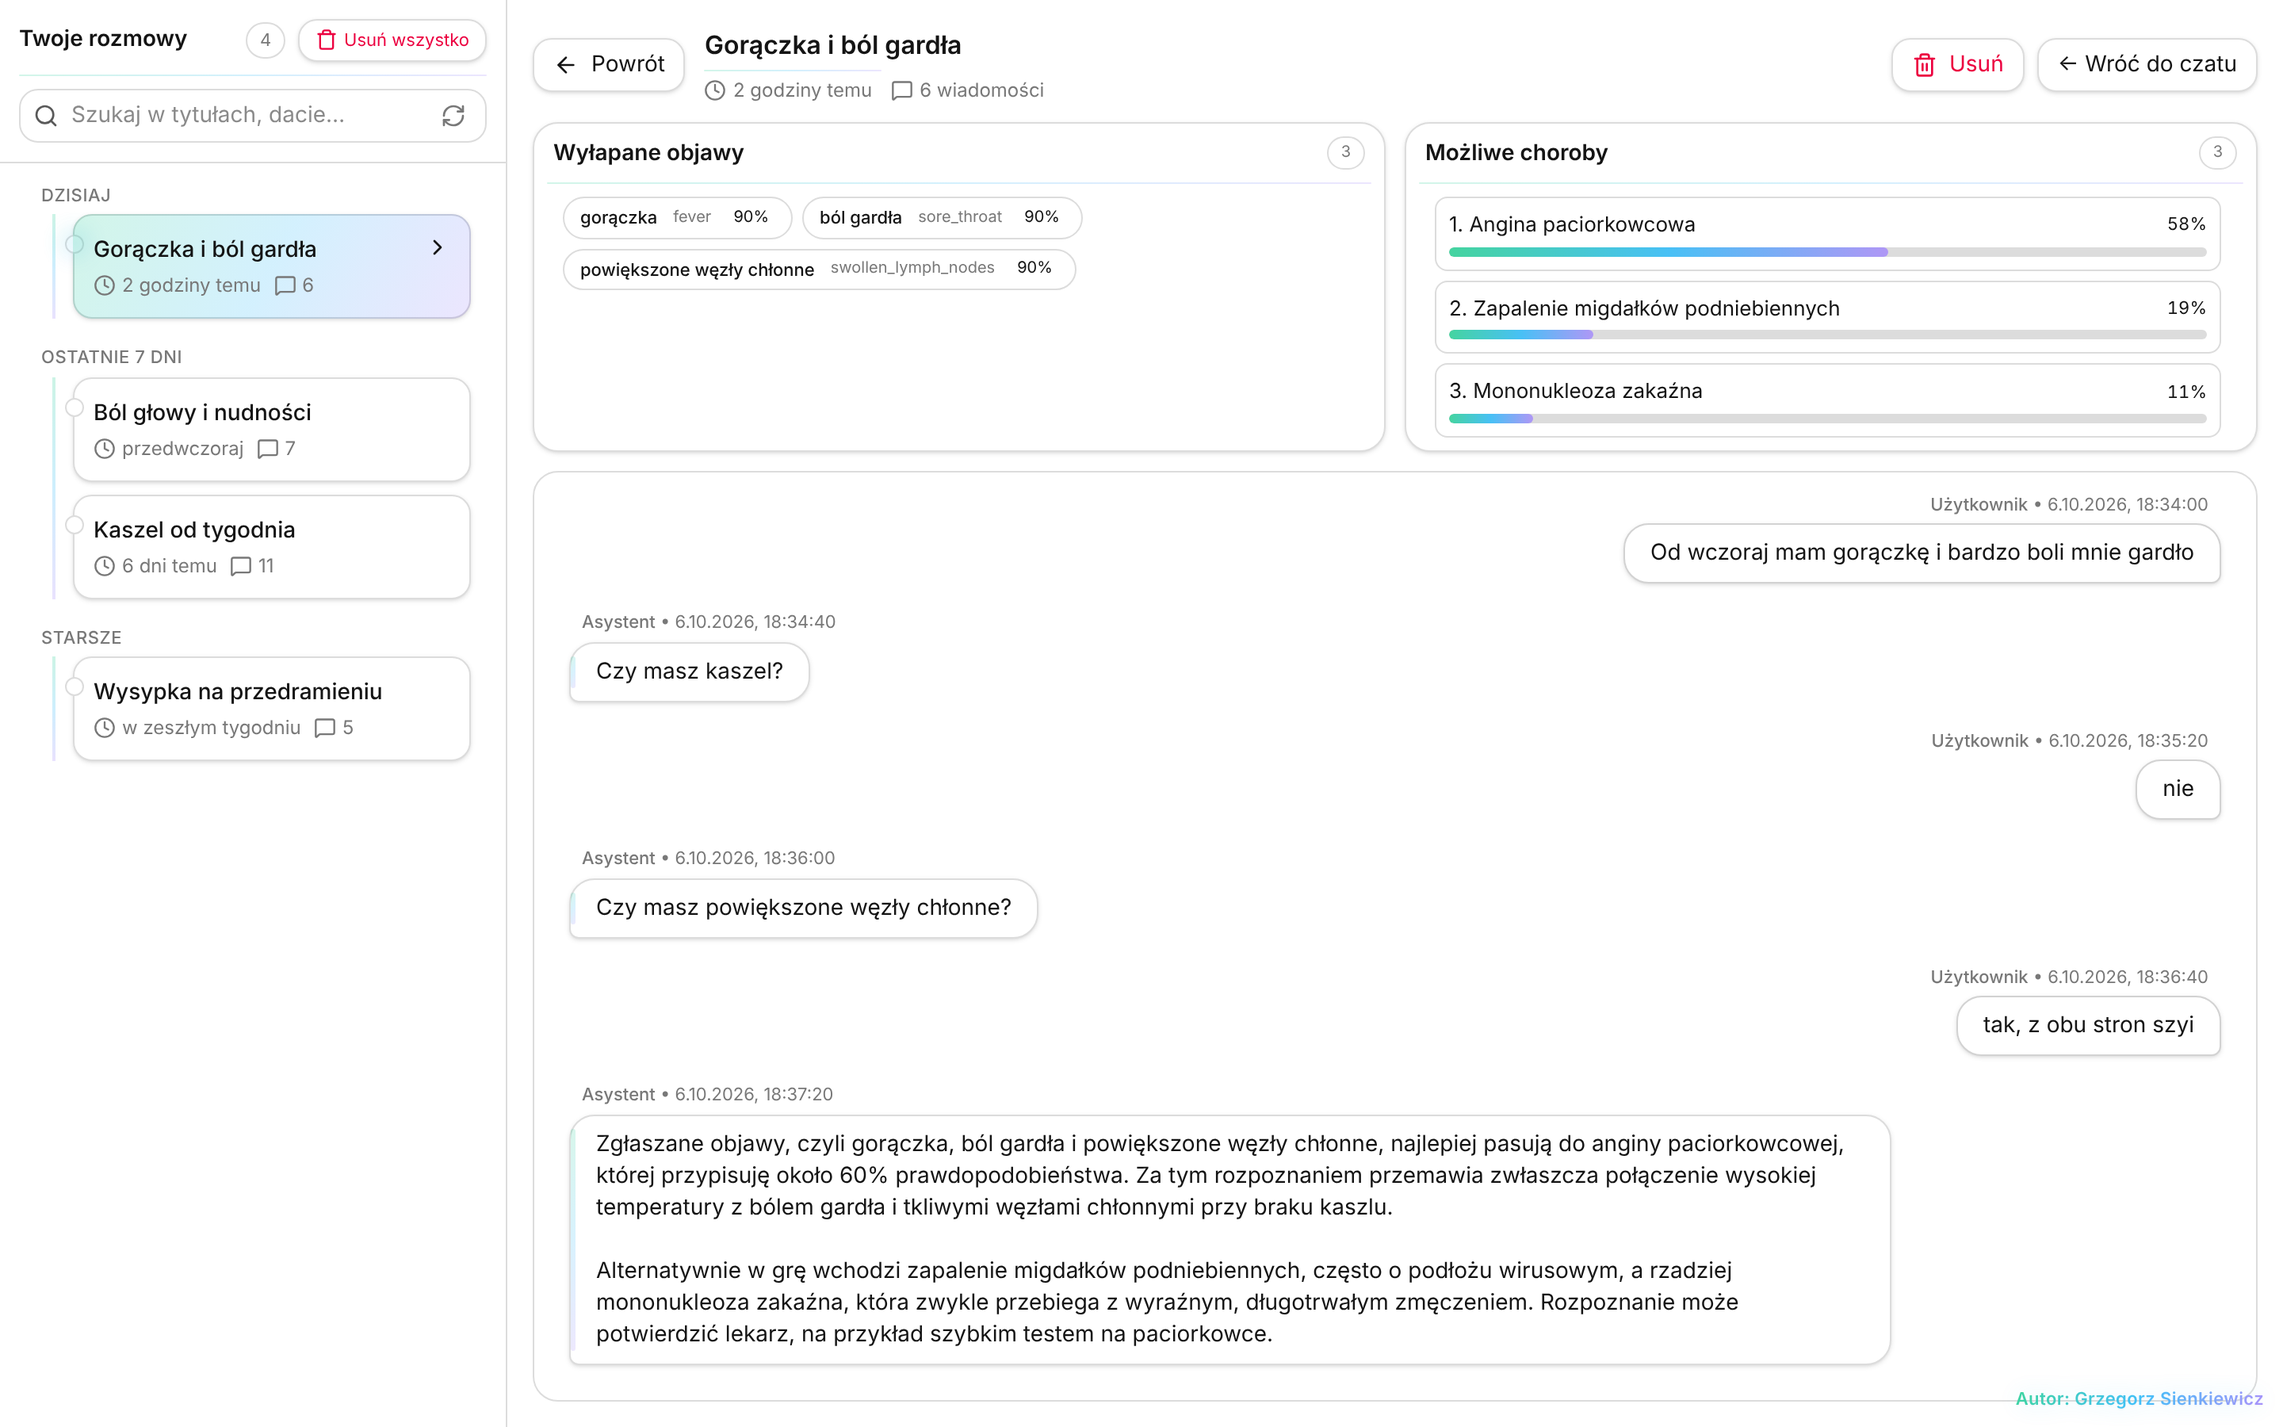
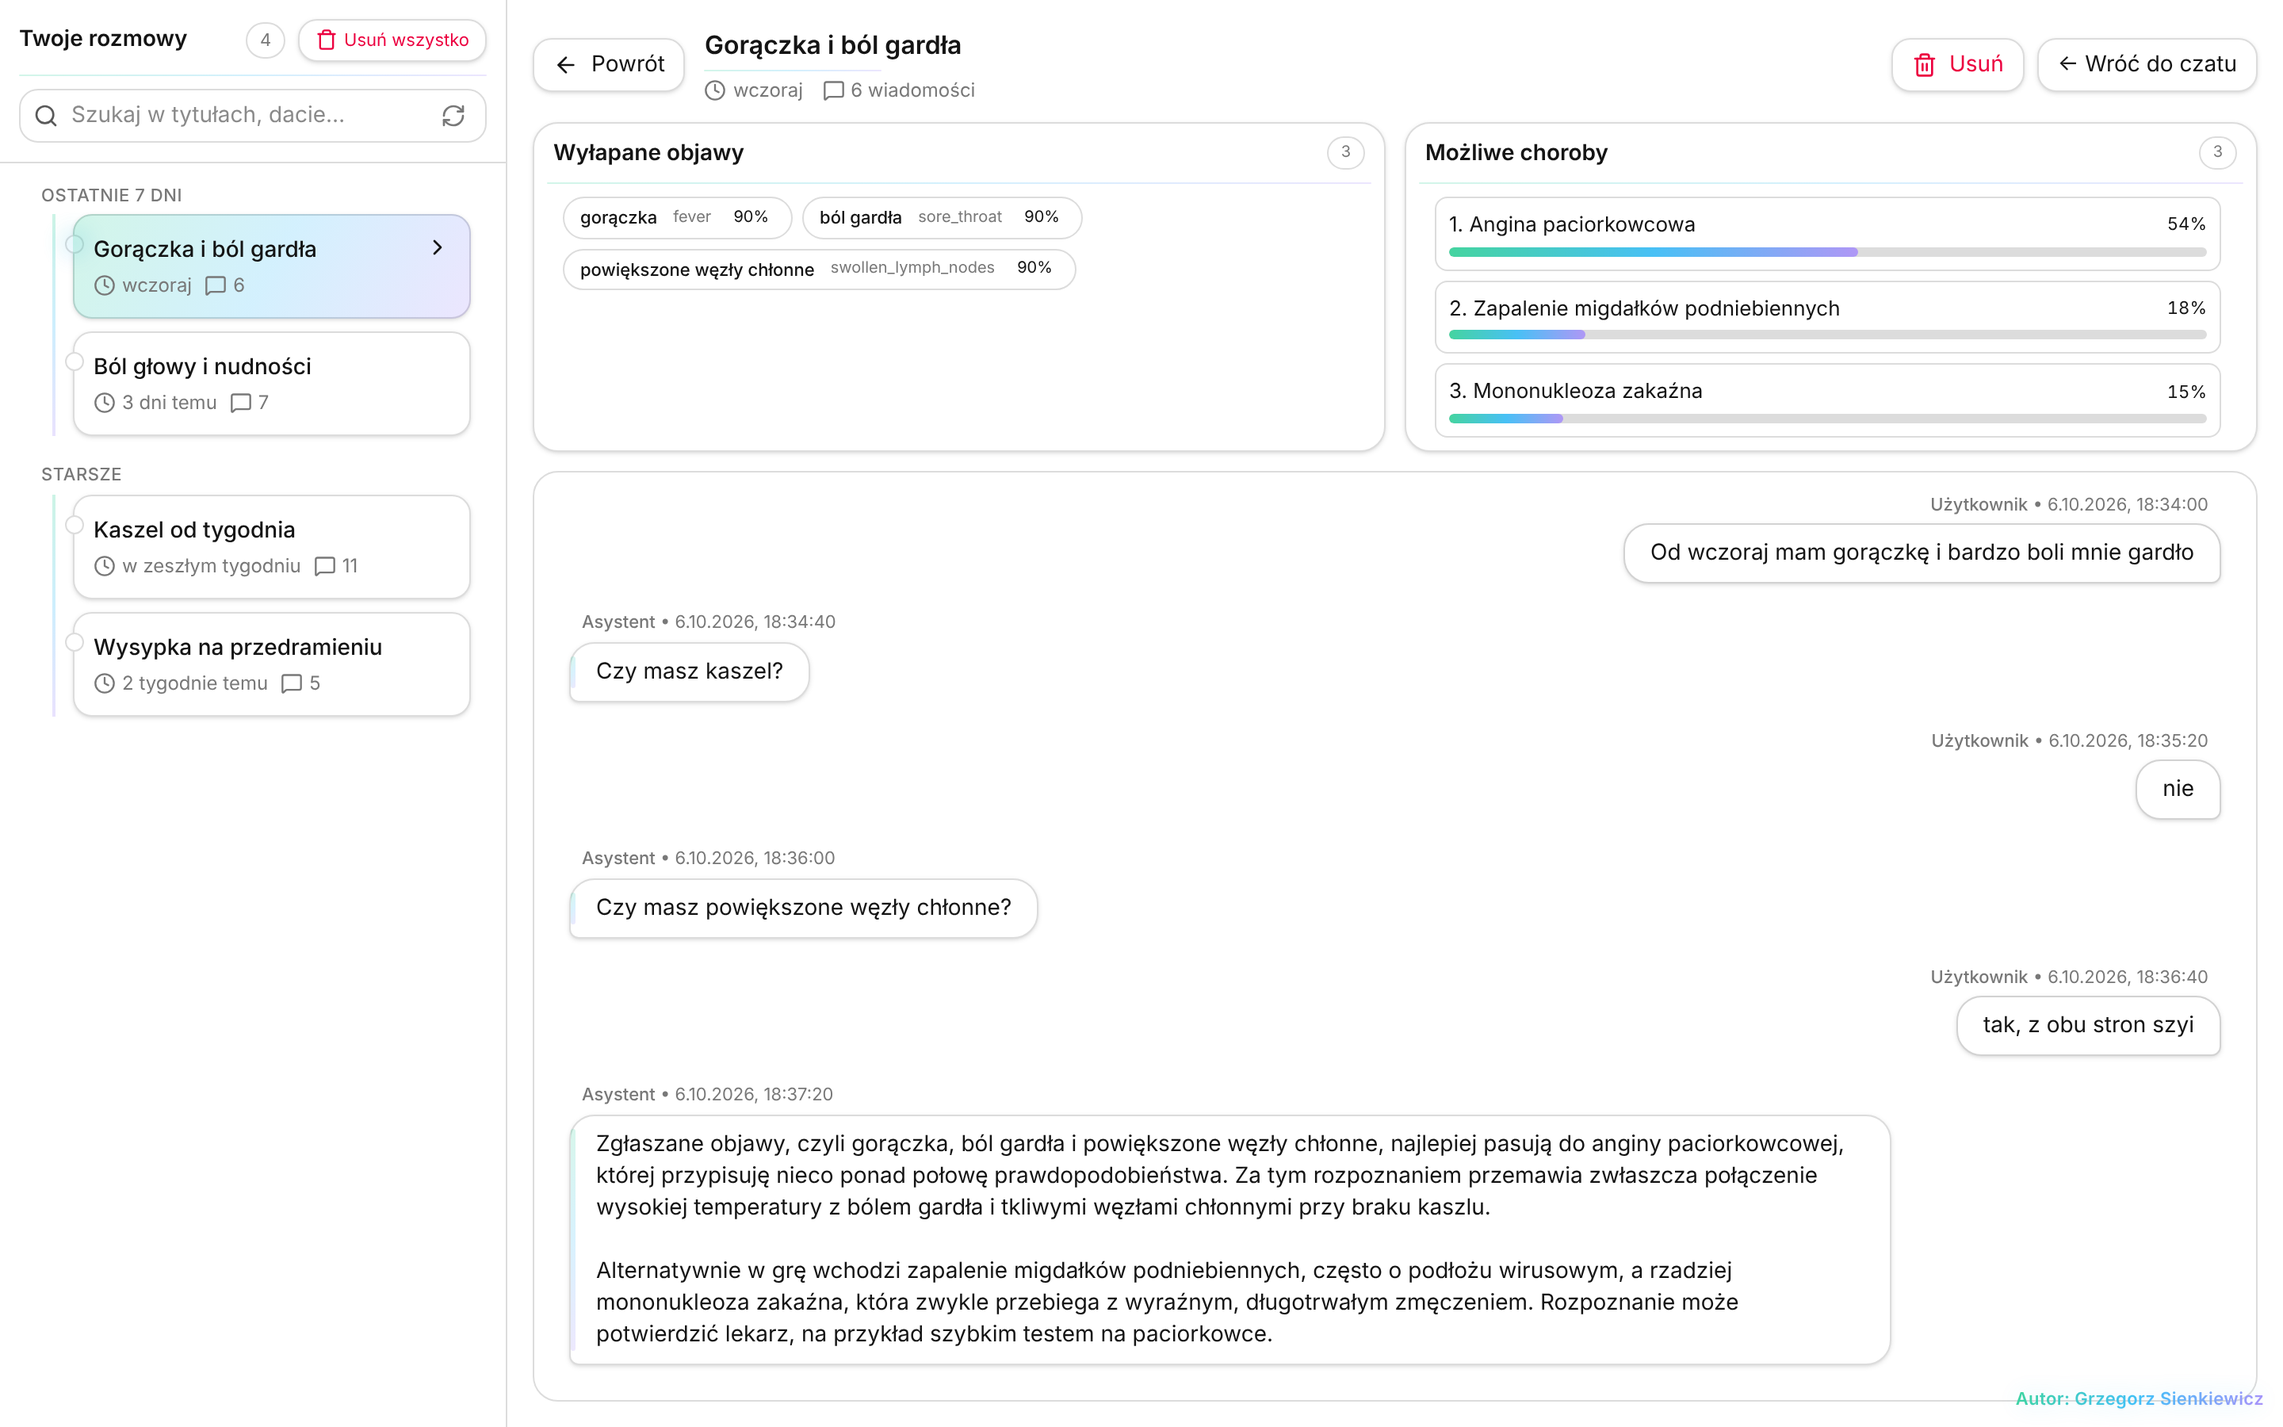
README: animowany schemat ensemble, wykres kalibracji, terminal, badge CI; zgodność z projektem

diff --git a/frontend/src/components/ModelSplitOverlay.tsx b/frontend/src/components/ModelSplitOverlay.tsx
@@ -23,6 +23,8 @@ type SplitResponse = {
         wx_dyn?: number;
         wr_dyn?: number;
         n_active?: number;
+        gated_to?: string;
+        fusion?: string;
     };
 };
 
@@ -293,11 +295,21 @@ export default function ModelSplitOverlay({
                             – Każdy z modeli osobno układa listę kilku chorób, które
                             najlepiej pasują do podanych objawów.
                         </li>
-                        <li>
-                            – Serwer sprawdza, który model w danej chwili wydaje się
-                            pewniejszy i miesza ich propozycje, dając trochę większy
-                            wpływ temu bardziej pewnemu, ale wciąż uwzględnia oba.
-                        </li>
+                        {data?.meta?.gated_to === "learned" ? (
+                            <li>
+                                – Serwer łączy oba rozkłady stałymi wagami:{" "}
+                                <b>{Math.round((data.meta.wx_dyn ?? 0) * 100)}% XGBoost</b> i{" "}
+                                <b>{Math.round((data.meta.wr_dyn ?? 0) * 100)}% River</b>. Wagi
+                                dobrano na osobnym zbiorze danych tak, żeby podawane
+                                prawdopodobieństwa jak najlepiej zgadzały się z rzeczywistością.
+                            </li>
+                        ) : (
+                            <li>
+                                – Serwer sprawdza, który model w danej chwili wydaje się
+                                pewniejszy i miesza ich propozycje, dając trochę większy
+                                wpływ temu bardziej pewnemu, ale wciąż uwzględnia oba.
+                            </li>
+                        )}
                         <li>
                             – Kolumna „Ensemble” pokazuje wynik po takim połączeniu:
                             choroby, co do których modele się zgadzają, lądują wyżej.

diff --git a/README.md b/README.md
@@ -7,6 +7,7 @@
 </a>
 
 <p align="center">
+  <a href="https://github.com/Nurek54/SymptomChecker/actions/workflows/ci.yml"><img src="https://github.com/Nurek54/SymptomChecker/actions/workflows/ci.yml/badge.svg" alt="CI" /></a>
   <img src="https://img.shields.io/badge/Python-3.11+-3776AB?style=flat-square&logo=python&logoColor=white" alt="Python" />
   <img src="https://img.shields.io/badge/FastAPI-009688?style=flat-square&logo=fastapi&logoColor=white" alt="FastAPI" />
   <img src="https://img.shields.io/badge/Next.js-15-000000?style=flat-square&logo=nextdotjs&logoColor=white" alt="Next.js" />
@@ -50,7 +51,7 @@ Predictions come from a **calibrated ensemble** of XGBoost (Bayesian-tuned on GP
     <td width="33%" valign="top">
       <img src="docs/icons/languages.svg" width="44" alt="" /><br />
       <b>Understands Polish</b><br />
-      <sub>Dictionary + multilingual embeddings, aware of inflection (<i>boli mnie głowa</i>) and negation (<i>gorączka już minęła</i>).</sub>
+      <sub>Curated PL dictionary with synonyms, a light Polish stemmer and fuzzy matching; handles inflection (<i>boli mnie głowa</i>) and negation (<i>gorączka już minęła</i>).</sub>
     </td>
     <td width="33%" valign="top">
       <img src="docs/icons/message-circle-question.svg" width="44" alt="" /><br />
@@ -144,6 +145,12 @@ Predictions come from a **calibrated ensemble** of XGBoost (Bayesian-tuned on GP
 
 ## How it works
 
+<picture>
+  <source media="(prefers-color-scheme: dark)" srcset="docs/ensemble-dark.svg" />
+  <source media="(prefers-color-scheme: light)" srcset="docs/ensemble-light.svg" />
+  <img src="docs/ensemble-light.svg" alt="Animation: symptoms go to XGBoost and River, their Top-3 distributions are averaged 0.53 / 0.47 and Bielik 11B explains the result" width="100%" />
+</picture>
+
 ### One chat turn
 
 ```mermaid
@@ -185,7 +192,7 @@ flowchart LR
     subgraph BE["Backend · FastAPI"]
         R["Routers<br/>chat · sessions · history<br/>dicts · river · auth"]
         CS["ChatService"]
-        MA["SymptomMatcher<br/>dictionary + embeddings"]
+        MA["SymptomMatcher<br/>dictionary + stemmer + fuzzy"]
         FS["Follow-up selector<br/>P(symptom | disease)"]
         subgraph ENS["Calibrated ensemble"]
             X["XGBoost<br/>T + prior correction"]
@@ -194,7 +201,7 @@ flowchart LR
         end
         LLM["Bielik 11B GGUF"]
     end
-    DB[("PostgreSQL / SQLite")]
+    DB[("Supabase PostgreSQL")]
     SB["Supabase Auth"]
 
     UI <--> ST
@@ -224,13 +231,17 @@ flowchart LR
 
 Every stage logs elapsed and remaining time, so a long first run is never a black box ([more](#progress-and-remaining-time)):
 
-```text
-[XGB][Bayes 3/32] runda 410/1446 | test mlogloss=0.2121 | minęło 2m10s | do limitu rund ~5m30s
-[XGB][Train] 40% (560/1400 rund) | minęło 1m12s | zostało ~1m48s
-[River/trening (paczki)]  58.3% (7/12) 0.1 epok/s | minęło 49s | zostało ~35s | strata=0.8460
-```
+<p align="center">
+  <img src="docs/terminal.svg" alt="Animated startup log: five stages with progress bars and remaining time" width="100%" />
+</p>
 
 ### Results
+
+<picture>
+  <source media="(prefers-color-scheme: dark)" srcset="docs/results-dark.svg" />
+  <source media="(prefers-color-scheme: light)" srcset="docs/results-light.svg" />
+  <img src="docs/results-light.svg" alt="Reliability diagram: the ensemble curve is closest to the diagonal; ensemble top-1 91.0%, top-3 98.6%, ECE 1.3%, NLL 0.217" width="100%" />
+</picture>
 
 Held-out test set: **24,278 cases, 569 diseases**, no symptom vector shared with the training or calibration data. Numbers come from `backend/ml_validation_runner.py` (report in `backend/reports/ml_validation/`).
 
@@ -273,9 +284,9 @@ Passed = at least 2 of K1 to K3 and no regression. K1/K2 originally required non
 | Classical ML | XGBoost (`hist`, CUDA), scikit-learn, scikit-optimize |
 | Online learning | River 0.23 (OneVsRest LogisticRegression; mini-batch warm start, then online SGD) |
 | LLM | Bielik 11B v2.3 Instruct (GGUF Q6_K) via `ctransformers` |
-| Embeddings | `sentence-transformers` (multilingual MiniLM) |
+| Symptom matching | PL dictionary + synonyms, light Polish stemmer, fuzzy matching (rapidfuzz or difflib) |
 | Auth | Supabase JWT (HS256 + JWKS), python-jose |
-| Persistence | PostgreSQL (Supabase) or SQLite via SQLAlchemy |
+| Persistence | Supabase PostgreSQL via SQLAlchemy (psycopg 3) |
 | Testing | pytest, pytest-asyncio, vitest, Playwright |
 
 ## Project Structure
@@ -291,6 +302,7 @@ SymptomChecker/
 │   ├── reports/              # ML validation outputs (SVG, JSON)
 │   ├── services/             # ensemble, prompt_builder, symptom_matcher, sessions, …
 │   ├── tests/                # pytest
+│   ├── tools/                # export_predictions.py (raw model outputs for analysis)
 │   ├── weights/bielik-gguf/  # ⬅ drop Bielik GGUF here (gitignored)
 │   ├── config.py             # ALL ML / LLM / auth knobs
 │   ├── app.py                # FastAPI factory
@@ -298,16 +310,19 @@ SymptomChecker/
 │   ├── ml_validation_runner.py
 │   └── requirements.txt
 ├── database/                 # SQLAlchemy: models, CRUD, security, db init
-├── docs/                     # README images: hero, demo.gif, screenshots/
+├── docs/                     # README images: animated SVGs, demo.gif, screenshots/, icons/
 ├── frontend/
+│   ├── .env.example          # frontend environment (copy to .env.local)
+│   ├── public/               # logo
 │   └── src/
 │       ├── app/              # Next.js App Router pages
 │       ├── components/       # ChatUI, AuthSheet, SidePanel, …
 │       ├── lib/              # api, supabaseClient, types
 │       ├── store/            # Zustand store
 │       └── tests/            # unit + e2e
+├── .github/workflows/ci.yml  # CI: pytest, ESLint, vitest, tsc
 ├── logs/
-├── .env.example
+├── .env.example              # backend environment (copy to .env)
 ├── .gitignore
 ├── LICENSE
 └── README.md
@@ -318,24 +333,24 @@ SymptomChecker/
 ### Prerequisites
 
 - **Python 3.11** or newer
-- **Node.js 18+** and npm
+- **Node.js 18.18+** and npm (required by Next.js 15)
 - **CUDA-capable GPU** strongly recommended (for fast XGBoost training and LLM inference). CPU works but is significantly slower.
-- **~25 GB free disk space** (LLM weights, ML models, datasets)
-- **Supabase project** - optional; the app can run in guest mode without it
+- **~20 GB free disk space** (LLM weights ~9.2 GB, Python environment with PyTorch, XGBoost model ~590 MB, datasets ~500 MB)
+- **Supabase project** - required by the backend: Postgres for history (`DATABASE_URL`, pooled) and Auth (`SUPABASE_JWT_SECRET`). In the UI you can still chat as a guest without logging in
 
 ### Backend
 
 ```bash
-cd backend
-python -m venv ../.venv
-..\.venv\Scripts\Activate.ps1   # Windows
-source ../.venv/bin/activate     # Linux / macOS
+# in the repository root
+python -m venv .venv
+.\.venv\Scripts\Activate.ps1      # Windows (PowerShell)
+source .venv/bin/activate        # Linux / macOS
 
-pip install -r requirements.txt
-cp .env.example .env             # fill in at minimum AUTH_SECRET_KEY
+pip install -r backend/requirements.txt
+cp .env.example .env             # Windows: Copy-Item .env.example .env
 ```
 
-> `bitsandbytes` is commented out by default - known issues on Windows. Uncomment on Linux if you need 8-bit quantization for the Transformers fallback path.
+Fill in `.env` (repository root, loaded by `backend/main.py`): `DATABASE_URL` (Supabase pooled Postgres URL), `SUPABASE_URL`, `SUPABASE_JWT_SECRET` and `FRONTEND_ORIGIN`. The backend refuses to start without the first and the third.
 
 ### Download external artifacts
 
@@ -343,7 +358,7 @@ These files are excluded from the repo due to size - you need to provide them yo
 
 #### LLM weights - Bielik 11B GGUF
 
-Download `Bielik-11B-v2.3-Instruct.Q6_K.gguf` (~8.7 GB) from HuggingFace:
+Download `Bielik-11B-v2.3-Instruct.Q6_K.gguf` (~9.2 GB) from HuggingFace:
 
 🔗 https://huggingface.co/speakleash/Bielik-11B-v2.3-Instruct-GGUF
 
@@ -361,13 +376,14 @@ The training datasets used for this project are **not redistributed in this repo
 
 The application expects the following files at the paths defined in `backend/config.py`:
 
-| Path | Required for | Approx. size |
-|------|--------------|--------------|
-| `backend/data/Final_Dataset_Diseases_and_Symptoms.csv` | XGBoost initial training | ~130 MB |
-| `backend/data/Final_Dataset_Diseases_and_Symptoms.class_weight.csv` | Per-class sample weights (auto-applied) | ~30 KB |
-| `backend/data/calibration.csv` | River temperature calibration | ~30 MB |
-| `backend/data/train_remainder.csv` | River incremental updates (optional) | ~100 MB |
-| `backend/data/Final_Testset_for_Eval.csv` | Held-out evaluation (already in repo) | ~13 MB |
+| Path | Role | Approx. size |
+|------|------|--------------|
+| `backend/data/train_remainder.csv` | Source split, input to `build_datasets.py` | ~100 MB |
+| `backend/data/calibration.csv` | Source split, input to `build_datasets.py` | ~30 MB |
+| `backend/data/Final_Testset_for_Eval.csv` | Source split (in repo), input to `build_datasets.py` | ~14 MB |
+| `backend/data/Final_Dataset_Diseases_and_Symptoms.csv` | Full original dataset; training fallback when no other split exists | ~130 MB |
+| `backend/data/Final_Dataset_Diseases_and_Symptoms.class_weight.csv` | Class weights for the fallback dataset (in repo) | ~30 KB |
+| `backend/data/v2/train.csv` / `calibration.csv` / `test.csv` | **What the models use**, generated by `build_datasets.py` | ~92 / 20 / 20 MB |
 
 **Recommended: rebuild the splits once** with `python data/build_datasets.py` (run in `backend/`). It writes `backend/data/v2/` (`train.csv`, `calibration.csv`, `test.csv`, `class_weight.csv`, `build_report.json`), which `config.py` uses automatically when present. The rebuild fixes problems found in the original files:
 
@@ -385,8 +401,10 @@ If you want to use **your own dataset** instead, see the [Dataset Format](#datas
 ```bash
 cd frontend
 npm install
-cp .env.example .env.local       # fill in NEXT_PUBLIC_SUPABASE_URL etc.
+cp .env.example .env.local       # Windows: Copy-Item .env.example .env.local
 ```
+
+Fill in `frontend/.env.local`: `NEXT_PUBLIC_SUPABASE_URL`, `NEXT_PUBLIC_SUPABASE_ANON_KEY` and `NEXT_PUBLIC_API_BASE_URL` (default `http://localhost:8000`).
 
 ### Running
 
@@ -628,17 +646,18 @@ All ML / LLM / auth knobs live in **`backend/config.py`**. Runtime overrides com
 | `APP_ENV` | env | `dev` | `dev` or `prod` |
 | `HOST` / `PORT` | env | `127.0.0.1` / `8000` | uvicorn bind |
 | `FRONTEND_ORIGIN` | env | `http://localhost:3000` | CORS origin |
-| `LOG_LEVEL` | env | `info` | logger level |
+| `LOG_LEVEL` | env | `INFO` | logger level |
 
 ### Auth / sessions
 
 | Setting | Source | Default | Purpose |
 |---------|--------|---------|---------|
-| `AUTH_SECRET_KEY` | env | - | JWT secret (fallback when no Supabase) |
-| `SUPABASE_URL` | env | - | Supabase project URL |
-| `SUPABASE_JWT_SECRET` | env | - | Supabase HS256 JWT secret |
+| `DATABASE_URL` | env | - | **Required.** Supabase pooled Postgres URL (`postgresql+psycopg://…supabase.com…`) |
+| `SUPABASE_URL` / `SUPABASE_JWKS_URL` | env | - | Supabase project URL and JWKS endpoint |
+| `SUPABASE_JWT_SECRET` | env | - | **Required** (unless `AUTH_SECRET_KEY` is set). Supabase HS256 JWT secret |
+| `AUTH_SECRET_KEY` | env | `SUPABASE_JWT_SECRET` | Secret for backend session tokens |
 | `ACCESS_TOKEN_EXPIRE_MINUTES` | env | `60` | JWT lifetime |
-| `SESSION_COOKIE_SECURE` | env | `false` | set `true` over HTTPS |
+| `SESSION_COOKIE_SECURE` / `SESSION_COOKIE_SAMESITE` | env | `false` / `lax` | set `true` / `none` for cross-site HTTPS |
 | `ADMIN_API_TOKEN` | env | empty | Token for `/river/*` admin endpoints (empty = disabled) |
 
 ### XGBoost training
@@ -650,7 +669,7 @@ All ML / LLM / auth knobs live in **`backend/config.py`**. Runtime overrides com
 | `XGB_USE_GPU` | `True` | Use CUDA |
 | `XGB_TREE_METHOD` | `"hist"` | Fastest tree algorithm |
 | `XGB_CALIBRATE` | `True` | Apply temperature scaling (fitted on held-out data) |
-| `XGB_CALIBRATION_CSV` | `data/calibration.csv` | Held-out calibration set (must differ from `DATA_CSV`) |
+| `XGB_CALIBRATION_CSV` | `data/v2/calibration.csv` (if v2 exists) | Held-out calibration set (must differ from `DATA_CSV`) |
 
 ### River
 
